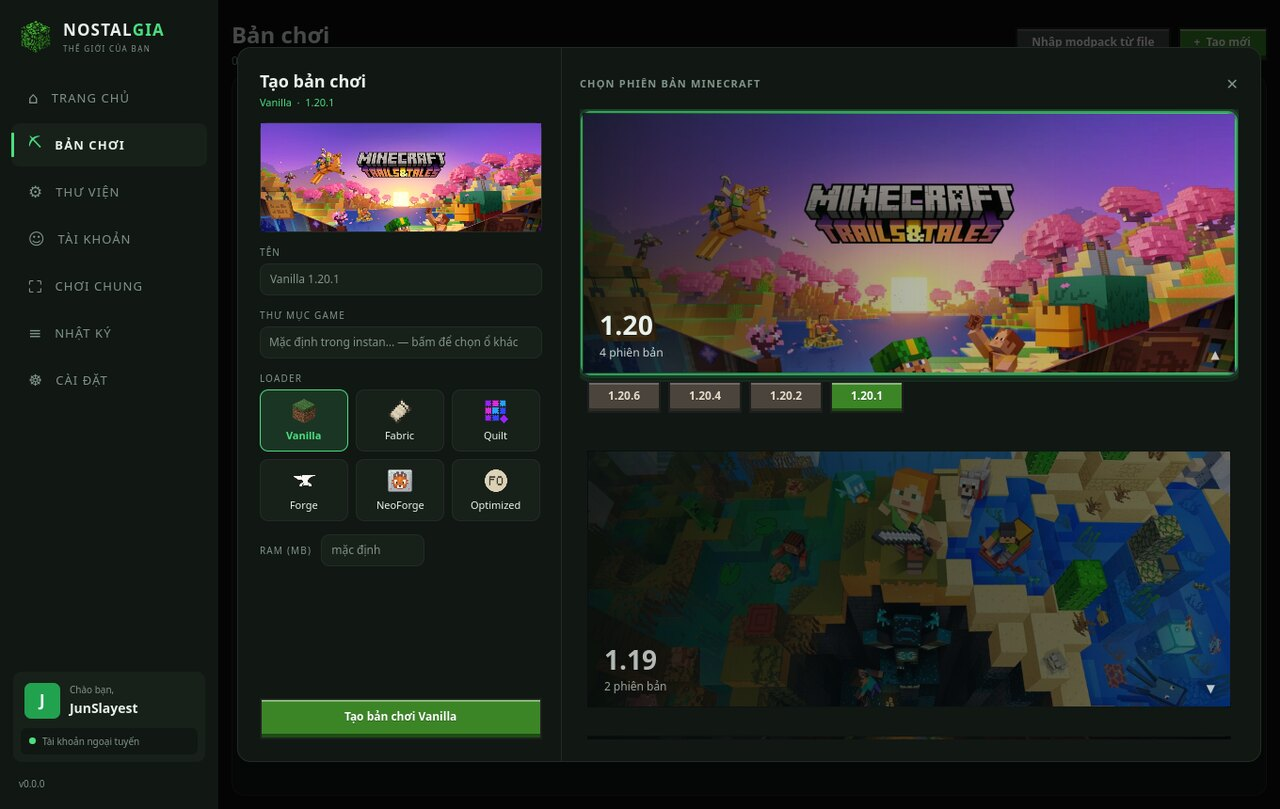
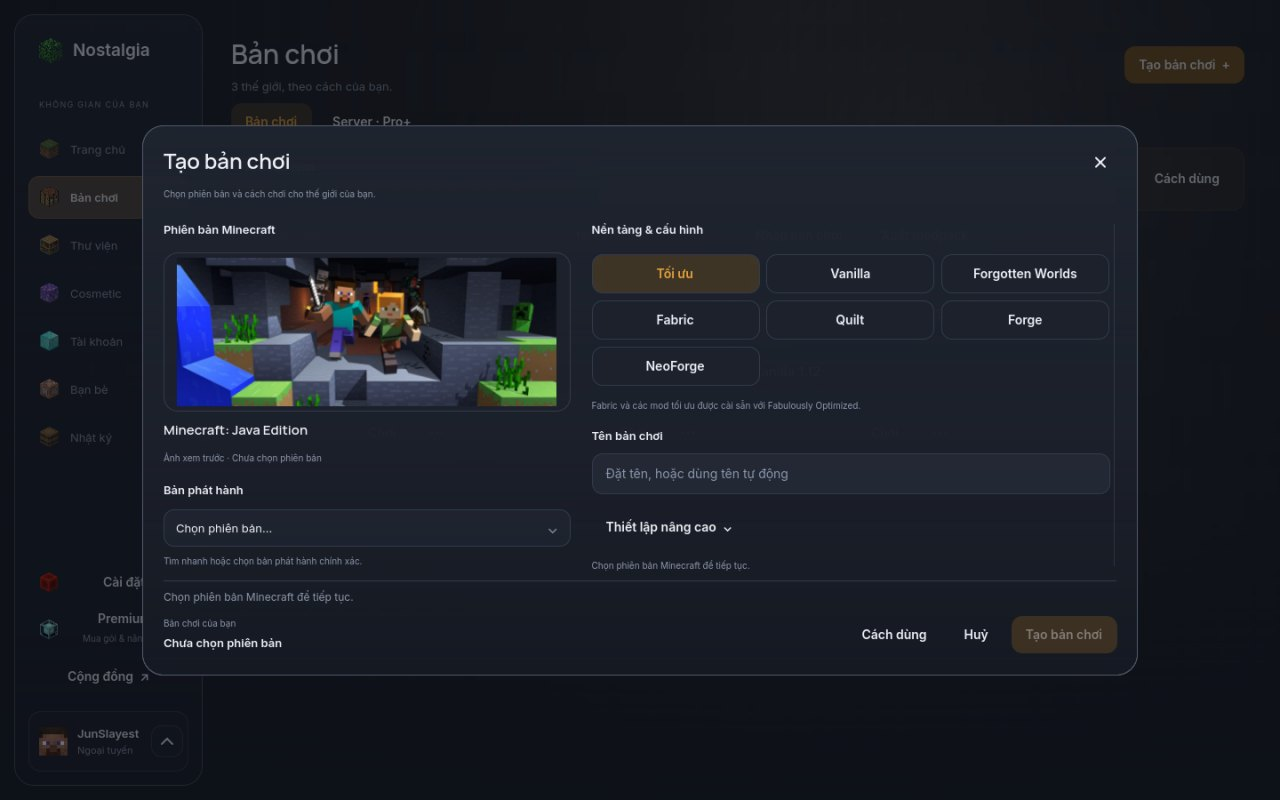
Refresh README for the 1.2 interface and features (#20)
Replace the 1.0-era Aero screenshots with captures of the current glass UI
(home slideshow, instances, create dialog, library, accounts, friends,
servers, cosmetics, settings) and rewrite the descriptions: peer-to-peer
rooms instead of relay, Google friends, server manager, Forgotten Worlds,
export, English UI, macOS builds, 2000+ tests.

diff --git a/README.md b/README.md
@@ -11,13 +11,14 @@ skins, friends, updates — is already taken care of.
 
 ![Python](https://img.shields.io/badge/Python-3.12%20%7C%203.13-3776AB?logo=python&logoColor=white)
 ![Qt](https://img.shields.io/badge/UI-PySide6%20%2B%20QML-41CD52?logo=qt&logoColor=white)
-![Tests](https://img.shields.io/badge/tests-770%20passing-2ea44f)
+![Tests](https://img.shields.io/badge/tests-2000%2B%20passing-2ea44f)
 ![Dependencies](https://img.shields.io/badge/core%20runtime%20deps-0-blueviolet)
 ![License](https://img.shields.io/badge/License-PolyForm%20Strict%201.0.0-blue)
 ![Linux](https://img.shields.io/badge/Linux-x64-FCC624?logo=linux&logoColor=black)
 ![Windows](https://img.shields.io/badge/Windows-x64-0078D6?logo=windows&logoColor=white)
+![macOS](https://img.shields.io/badge/macOS-arm64%20%7C%20x64-000000?logo=apple&logoColor=white)
 
-![Home — "Hôm nay chơi gì?"](docs/showcase/home.jpg)
+![Home — the Forgotten Worlds slide and your instances](docs/showcase/home.jpg)
 
 **[⬇ Download page](https://junxmas.github.io/NostalgiaLauncher/)** — it detects your OS and
 hands you one file.
@@ -31,7 +32,7 @@ hands you one file.
 ## Why this exists
 
 I built my first Minecraft launcher in August 2026. It was my very first real project, and I
-loved it — the frosted Aero glass, the little home screen, the feeling that opening a program
+loved it — the frosted glass, the little home screen, the feeling that opening a program
 could be a tiny event again. People were kind about it. It also had rough edges everywhere,
 because I was learning while I typed.
 
@@ -39,9 +40,10 @@ So I did the scary thing: **I started over.** Same name, same heart, none of the
 
 This repository is that second attempt. It was written step by step, one pull request at a
 time, with a rule I did not have the first time: *nothing ships without a test that proves it.*
-The launcher you see in the screenshots is the result — 130 commits, 770 tests, and a lot of
-evenings. It is not finished (a launcher never is), but for the first time I am not afraid of
-what is underneath the paint.
+Since 1.0 the launcher has grown a whole new face — a calm glass sidebar, real Minecraft
+blocks for icons, friends, rooms, servers — and more than two thousand tests underneath. It is
+not finished (a launcher never is), but for the first time I am not afraid of what is
+underneath the paint.
 
 Welcome back. Nostalgia is the point. 💚
 
@@ -53,106 +55,104 @@ Welcome back. Nostalgia is the point. 💚
 
 ![Home](docs/showcase/home.jpg)
 
-The home page is a night sky over a Minecraft world, with little floating cards pinned to the
-landmarks in the picture — a planet for **Accounts**, a redstone block for **Mods**, a cabin
-for **Instances**. Hover one and it lifts; the pin under it breathes for a second and settles.
-The big green **CHƠI ▶** button is a real block: it lifts on hover and sinks with a little
-weight when you press it. On the right, your profile, the version you last played, and the
-friends who are online right now.
+The home page opens on a slideshow. The first slide is our community server,
+**Forgotten Worlds**, with real screenshots from the server rotating behind it: one button
+creates the matching instance, the next time it jumps you straight into
+`snow.pikamc.vn:25079`, and when the server's modpack has a new version the button turns into
+**Update modpack**. Below it: your instances, one click from playing. The sidebar icons are
+rendered from Minecraft's own block models — grass, barrel, bookshelf, amethyst, diamond.
 
-### ⛏ Create an instance — every version has a face
+### ⛏ Instances, and a create dialog with a face
+
+![Instances](docs/showcase/instances.jpg)
+
+Every instance is a card: play, favorite, group, search, import a `.mrpack`/`.zip`, or
+**export** one back out as a Modrinth `.mrpack` or a plain ZIP for a friend.
 
 ![Create instance](docs/showcase/create-instance.jpg)
 
-Every Minecraft generation is a card with its official key art (Trails & Tales, The Wild
-Update, Caves & Cliffs…). Cards you haven't picked sit dimmed in their slots; tap one and it
-**lights up, glows, and lifts out of the slot** while its versions slide down as stone buttons.
-Pick a loader — Vanilla, Fabric, Quilt, Forge, NeoForge, or *Optimized* (a ready-made
-Fabulously Optimized pack for the best FPS) — choose RAM, and if your main drive is full,
-point that one instance at **any folder on any disk**.
-
-**Forgotten Worlds** adds industrial survival with Create and JEI to Fabulously Optimized on
-Minecraft 1.21.11, with its server address ready to play. See
-[the pack documentation](docs/FORGOTTEN_WORLDS.md) for included mods and version pins.
-
-### 👤 Accounts and a skin library that lives in the launcher
-
-![Accounts](docs/showcase/accounts-skins.jpg)
-
-Microsoft, [Ely.by](https://ely.by) and offline accounts side by side, with a proper full-body
-preview you can turn around. Every skin the launcher ever meets — downloaded for an account,
-uploaded, or added by you — lands in the **skin library**. One button, *Thêm skin*, does the
-right thing for whoever is selected: Microsoft accounts upload to Mojang, everyone else gets
-the skin applied instantly. Ely.by accounts go through authlib-injector, and the injector jar is
-verified by SHA-256 before it is ever handed to Java.
+Pick a Minecraft version and the dialog shows that generation's official key art. Choose a
+platform — **Optimized** (Fabric + Fabulously Optimized for the best FPS), Vanilla, **Forgotten
+Worlds**, Fabric, Quilt, Forge or NeoForge — and open *Advanced* for RAM and a game folder on
+**any disk you like**. Forgotten Worlds is industrial survival with Create, JEI and Naturalist
+on Minecraft 1.21.11, Vietnamese translation on by default; see
+[the pack documentation](docs/FORGOTTEN_WORLDS.md) for every pinned mod. Updating a pack keeps
+your worlds, settings and the mods you added yourself, and rolls back if a download fails.
 
 ### 📚 Library — Modrinth and CurseForge, no API key
 
 ![Library](docs/showcase/library.jpg)
 
-Mods, resource packs, shaders and modpacks from **Modrinth** and **CurseForge**, filtered by the
-loader and version of the instance you are installing into. CurseForge requests go through the
-project's own tiny relay so you never have to create or paste an API key. Drop a `.mrpack` or
-`.zip` anywhere on the window and it becomes an instance.
+Modpacks, mods, shaders and resource packs from **Modrinth** and **CurseForge** in one search.
+Pick the instance and the launcher chooses the newest stable file that matches its Minecraft
+and loader — or open *Change version* to pick one yourself. CurseForge requests go through the
+project's own tiny proxy, so you never have to create or paste an API key. Drop a `.mrpack`
+or `.zip` anywhere on the window and it becomes an instance.
 
-![Drag and drop](docs/showcase/drag-drop.jpg)
+### 👤 Accounts and skins
 
-### ⛶ Play together — LAN over the internet
+![Accounts](docs/showcase/accounts-skins.jpg)
 
-![Multiplayer](docs/showcase/multiplayer.jpg)
+Microsoft, [Ely.by](https://ely.by) and offline accounts side by side, with a full-body
+preview you can drag to turn around. Skins and capes have a preview-then-**Save** flow per
+account, Classic/Slim switches the model instantly, and every skin the launcher meets lands in
+your **skin library**. Ely.by accounts go through authlib-injector, and the injector jar is
+verified by SHA-256 before it is ever handed to Java.
 
-Open a LAN world, press **Mở phòng**, and read your friend an 18-character room code. They
-paste it, and their game sees your world as if you were on the same Wi-Fi. The relay only ever
-forwards bytes; it cannot read your world. The ten security rules it lives by — and the tests
-that enforce every one of them — are in [`docs/MULTIPLAYER_SECURITY.md`](docs/MULTIPLAYER_SECURITY.md).
+### 🤝 Friends and rooms — play together, peer to peer
 
-### 🔔 It tells you what is happening
+![Friends](docs/showcase/friends.jpg)
 
-![Toast](docs/showcase/toast.jpg)
+Sign in with Google once and your friends follow you to any computer. See who is online,
+chat, send an invite. **Create a room**, pick the instance, open your world to LAN, and invite
+friends straight from the room panel — they get a **Join room** button and their game sees your
+world as if you shared the same Wi-Fi.
 
-A quiet toast when the game starts, when it exits, when a version finishes downloading, when an
-update is ready — with a short chime you can switch off. Soft dashboard-style interface sounds
-(navigation blip, select, open, back) have their own switch and were tuned to stay well below
-the frequencies that give you a headache.
+Game traffic and custom mod files travel **directly between the two computers** over
+WebRTC, encrypted with DTLS; the server only helps the two sides find each other. Shared files
+are checked by size and SHA-256 before anything is installed. The threat model and the tests
+that enforce it are in [`docs/MULTIPLAYER_SECURITY.md`](docs/MULTIPLAYER_SECURITY.md).
 
-### 📜 Log and statistics
+### 🖥 Your own server
 
-![Log](docs/showcase/log.jpg)
+![Servers](docs/showcase/servers.jpg)
 
-The game's output streams into the **Nhật ký** page live, capped at 5,000 lines, with a
-warning/error filter and one-click copy for bug reports. Every instance keeps its own numbers:
-hours played, launches, worlds, mods.
+The *Server* tab installs and runs a Minecraft server **on your own machine** — Paper,
+Purpur, Folia, Fabric, Vanilla or an Arclight hybrid — from official, pinned builds with
+checksums verified before launch. Settings, plugins/mods, a live console and the raw files
+each have their own page. (Part of the Pro, Max and Ultimate plans; no VPS is included.)
+
+### ✨ Cosmetics
+
+![Cosmetics](docs/showcase/cosmetics.jpg)
+
+Profile frames and banners — Amethyst, Grove, Eclipse, Jack-o'-lantern — that your friends see
+next to your name. Try any of them on before using it.
 
 ### ⚙ Settings, auto-update, Discord
 
 ![Settings](docs/showcase/settings.jpg)
 
-Auto-update checks GitHub once at startup (switchable), downloads over HTTPS, verifies the
-`SHA256SUMS` of the release, and only ever applies itself to a packaged build — never to a
-source checkout. Discord Rich Presence works out of the box — no Application ID to create, no
-field to fill in: it shows "Đang ở launcher", then the instance you are playing and for how
-long, and connects whenever Discord happens to be open (set `NOSTALGIA_DISCORD_APP_ID` if you
-would rather show your own app). A default folder for new instances lets you keep the whole
-library on a second drive.
+**Vietnamese and English**, text size up to 150 %, compact lists, reduced motion, and a switch
+for the home artwork. Auto-update checks GitHub at startup (switchable), downloads over HTTPS,
+verifies the release's `SHA256SUMS`, and only installs after you press *Update now* — on
+Windows it even asks for UAC when the launcher lives in a protected folder. Discord Rich
+Presence works out of the box, the game log streams live with warning/error filters, and a
+default folder for new instances lets you keep the whole library on a second drive.
 
 ---
 
-## What's new in the rework
+## What's new since 1.0
 
-Everything below did not exist in the old `NostalgiaLauncher`, or was rebuilt from the ground up:
-
-- 🔐 **Ely.by accounts** next to Microsoft and offline — with the authlib-injector jar verified by SHA-256 before Java ever sees it.
-- 🧱 **Quilt** and an **Optimized** preset join Vanilla / Fabric / Forge / NeoForge.
-- 💽 **Any instance on any disk** — point a modpack at a second drive when the main one is full.
-- 🖼 **Key-art version cards** that dim, glow, lift and slide open.
-- 🛒 **CurseForge without an API key**, plus Modrinth, plus **drag-and-drop** modpack import.
-- 🌐 **Play together over the internet** with a room code — no port forwarding, no plugins.
-- 🎨 **Skin library** inside the launcher, one button to add / upload / apply.
-- ⏯ **Continue playing** from the home page: recent worlds *and* the servers you added in-game (with their real icons) — one click jumps straight in; the PLAY button turns into STOP while the game runs.
-- 📜 Live **game log** with filters, **play statistics**, toasts, chimes, **dashboard-style UI sounds**, **Discord Rich Presence**.
-- 🔄 **Auto-update** that refuses anything without a matching `SHA256SUMS`.
-- 📦 **Installers for everyone**: AppImage / .deb / .rpm / tar.gz on Linux, .dmg for Apple Silicon and Intel, a proper setup.exe on Windows.
-- 🧪 Under the hood: 770 tests, zero-dependency core, seven fenced layers, 200-line files, a naming glossary — all enforced by CI.
+- 🪟 **A new interface**: glass sidebar, Minecraft block icons, slideshow home, smoother lists that only build what is on screen.
+- 🌍 **Vietnamese and English**, switchable on the login screen or in Settings.
+- 🏔 **Forgotten Worlds** — a built-in modpack for the community server, with in-place updates and a heads-up when a new version ships.
+- 🤝 **Google sign-in, friends, chat and invites**, plus rooms that connect **peer to peer** (encrypted WebRTC) instead of through a relay.
+- 🖥 **Server manager** for Paper / Purpur / Folia / Fabric / Vanilla / Arclight on your own PC.
+- 📦 **Export** any instance as `.mrpack` or ZIP; **permanent delete** with confirmation; old backups still restorable.
+- 🎨 Skin and cape preview with **Save**, and profile **cosmetics**.
+- 💎 **Premium plans** (Plus, Pro, Max, Ultimate) for extras like modpack sync in rooms and the server manager. Everything the launcher did before stays free.
+- 🍎 **macOS builds** for Apple Silicon and Intel.
 
 ---
 
@@ -195,30 +195,30 @@ uv run nostalgia instance create vui-ve --version 1.20.1
 uv run nostalgia play vui-ve --account Jun
 ```
 
-> The interface currently speaks **Vietnamese**. English is on the list.
+> The interface speaks **Vietnamese** and **English** — pick one on the login screen or in Settings.
 
 ---
 
 ## The rework, honestly
 
-| | Old `NostalgiaLauncher` (Aug 2026) | This repository (1.0, Sep 2026) |
+| | Old `NostalgiaLauncher` (Aug 2026) | This repository (1.2, Oct 2026) |
 |---|---|---|
 | Codebase | one big Qt app, learned as I went | rewritten from an empty folder |
-| Runtime dependencies | `PySide6`, `requests` | **none** for the core; `PySide6-Essentials` only if you want the window |
-| Tests | a handful | **770**, run on Python 3.12 and 3.13 in CI |
-| Architecture | everything talks to everything | 7 layers; a test fails if a lower layer imports a higher one |
+| Runtime dependencies | `PySide6`, `requests` | **none** for the core; the window adds PySide6 and a few small libraries |
+| Tests | a handful | **2,000+**, run on Python 3.12 and 3.13 in CI |
+| Architecture | everything talks to everything | layered; a test fails if a lower layer imports a higher one |
 | UI ↔ engine | direct calls | one façade (`nostalgia.api`) — the UI cannot import anything else |
 | File size | some files > 1,000 lines | every `.py` ≤ 200 lines of code, enforced by a test |
 | Naming | whatever came to mind | a glossary of banned/required names, enforced by a test |
-| Accounts | Microsoft, offline | Microsoft, **Ely.by**, offline |
-| Loaders | Vanilla, Fabric, Forge, NeoForge | + Quilt, + Optimized preset |
-| Multiplayer | — | LAN over relay with room codes |
-| Skins | pixel editor, 3D model | library, upload, apply; editor is coming back |
-| Languages | 10 | Vietnamese (for now) |
-| Builds | .exe / .dmg / .deb | Linux and Windows zips with checksums; macOS pending |
+| Accounts | Microsoft, offline | Microsoft, **Ely.by**, offline (+ Google for friends) |
+| Loaders | Vanilla, Fabric, Forge, NeoForge | + Quilt, + Optimized, + Forgotten Worlds |
+| Multiplayer | — | friends, invites, peer-to-peer rooms |
+| Skins | pixel editor, 3D model | library, preview, upload, apply; editor is coming back |
+| Languages | 10 | Vietnamese, English |
+| Builds | .exe / .dmg / .deb | AppImage, .deb, .rpm, setup.exe, .dmg (arm64 + x64), all with checksums |
 
 What I kept: the name, the warm home screen, the idea that a launcher should do the boring parts
-for you. What I gave up, for now: the pixel skin editor, translations, and the macOS build. They
+for you. What I gave up, for now: the pixel skin editor and most of the old translations. They
 will return — but this time on top of something that does not fall over.
 
 ---
@@ -229,12 +229,12 @@ will return — but this time on top of something that does not fall over.
   Java runtimes, modloader installers — all on `http.client` and the standard library. It is
   1.5× faster than `requests` under parallel downloads and starts faster, too
   ([`docs/PERFORMANCE.md`](docs/PERFORMANCE.md)).
-- **Seven layers with a fence.** `tests/test_api_boundary.py` and friends fail the build if the
+- **Layers with a fence.** `tests/test_api_boundary.py` and friends fail the build if the
   UI imports anything but the façade, if a file grows past 200 lines, or if a banned name
   ([`GLOSSARY.md`](GLOSSARY.md)) sneaks in.
 - **Security first.** Path traversal checks on every archive entry, SHA-256 on every downloaded
   jar and on every update, a network guard in the test suite so no test can touch the internet
-  by accident, and a relay that cannot see inside your world.
+  by accident, and multiplayer traffic that goes peer to peer, encrypted end to end.
 - **Measured, not guessed.** `bench/` holds real probes — how many disk reads a click costs, how
   long the UI thread stalls when you expand a card (it used to be 200 ms; it is now under 1 ms).
 
@@ -246,11 +246,14 @@ Contributing notes live in [`CONTRIBUTING.md`](CONTRIBUTING.md); releases in
 ## Tiếng Việt
 
 Nostalgia Launcher là trình khởi động Minecraft viết lại từ đầu sau dự án đầu tay cùng tên
-(08/2026). Đăng nhập Microsoft / Ely.by / ngoại tuyến, tạo bản chơi theo dòng phiên bản với key
-art chính thức, loader Vanilla / Fabric / Quilt / Forge / NeoForge / Optimized, thư viện mod và
-modpack từ Modrinth và CurseForge (không cần khoá API), chơi chung qua relay bằng mã phòng, thư
-viện skin, nhật ký game, thống kê, thông báo, tự cập nhật có kiểm sha256. Lõi không phụ thuộc
-thư viện ngoài; 770 test; mỗi file ≤ 200 dòng. Chi tiết từng bản ở [`CHANGELOG.md`](CHANGELOG.md).
+(08/2026). Giao diện kính mới với icon khối Minecraft thật, trang chủ dạng băng trượt có server
+cộng đồng **Forgotten Worlds** (tạo bản chơi, vào thẳng server, cập nhật modpack giữ nguyên thế
+giới). Đăng nhập Microsoft / Ely.by / ngoại tuyến; loader Tối ưu / Vanilla / Fabric / Quilt /
+Forge / NeoForge; thư viện modpack, mod, shader, gói tài nguyên từ Modrinth và CurseForge (không
+cần khoá API); xuất bản chơi ra `.mrpack`/ZIP. Đăng nhập Google để kết bạn, chat, mời chơi;
+phòng chơi kết nối **P2P mã hoá** giữa hai máy. Quản lý server ngay trên máy, cosmetic hồ sơ,
+giao diện Tiếng Việt / English, tự cập nhật có kiểm SHA-256. Lõi không phụ thuộc thư viện ngoài;
+hơn 2.000 test; mỗi file ≤ 200 dòng. Chi tiết từng bản ở [`CHANGELOG.md`](CHANGELOG.md).
 
 ---
 
@@ -274,6 +277,3 @@ Minecraft is a trademark of Mojang Studios / Microsoft. The key art in
 `src/nostalgia/ui/qml/assets/keyart/` belongs to Mojang and is used for non-commercial
 illustration only ([credits](src/nostalgia/ui/qml/assets/keyart/CREDITS.md)). This launcher is
 not affiliated with Mojang or Microsoft.
-
-Forgotten Worlds 1.0.2: update the launcher to rc36, then open your existing instance
-manager and choose **Update modpack**. Worlds, settings and user-added mods are kept.
